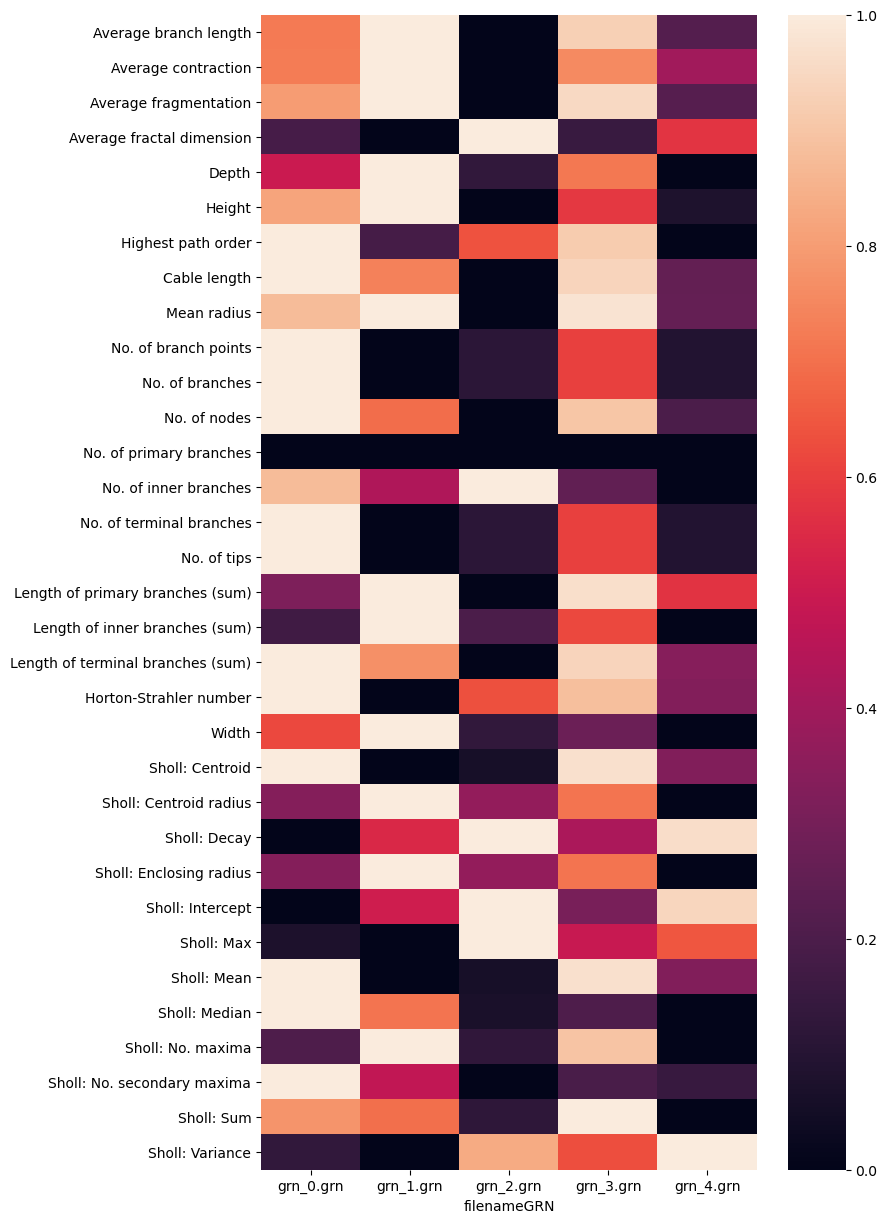
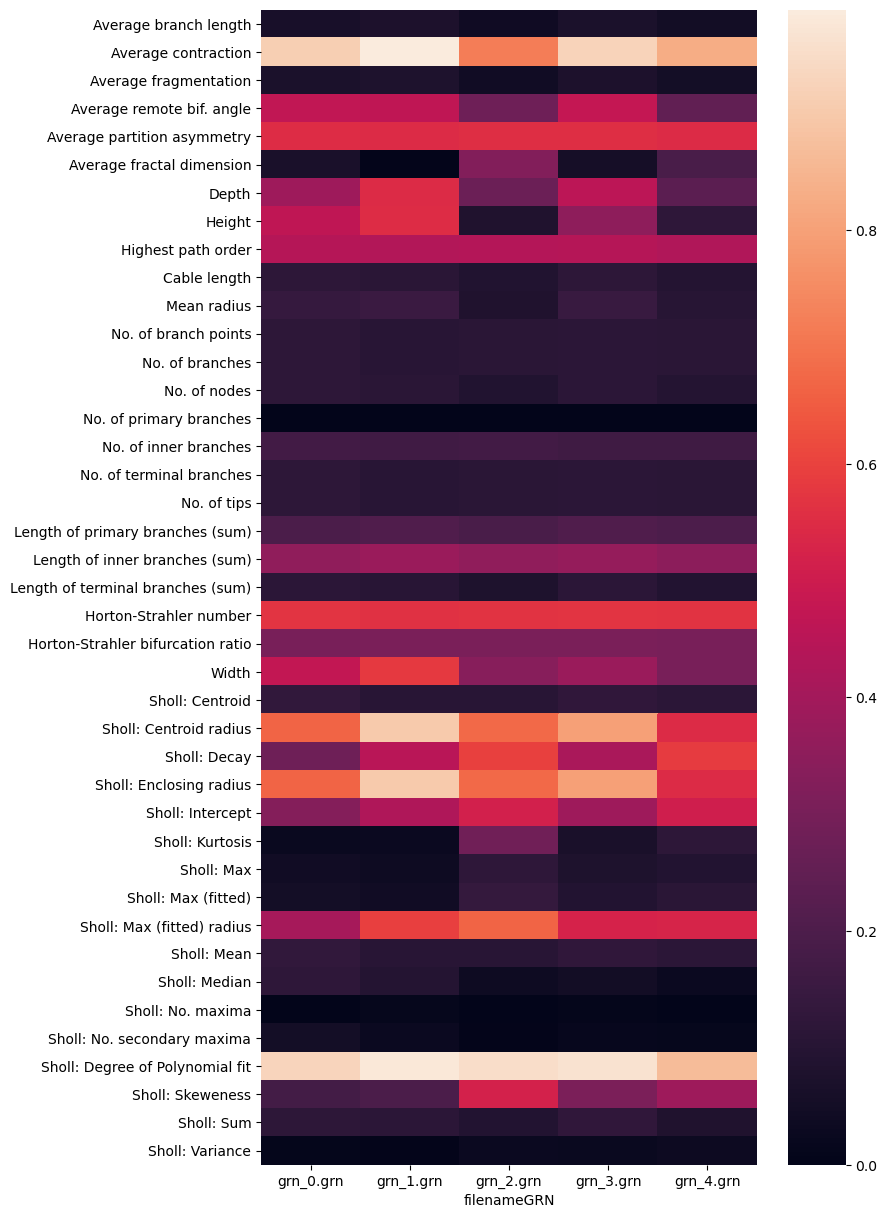
Update scaling in heatmaps

diff --git a/Metrics/analysis.py b/Metrics/analysis.py
@@ -76,13 +76,15 @@ plot_histplot(pdata)
 
 # Create the heatmap
 def plot_heatmap(pdata):
-    snt_df = pdata.drop(columns=["Description"])
-    snt_df = snt_df.dropna(axis="columns")
-    # Aggregate each projection group using the mean value of each metric across all observations
-    snt_df = snt_df.groupby(["projectionGroup"]).mean()
-    # Scale the values of each metric by the min-max value across the projection groups, so that all metrics
+    snt_df = pdata.dropna(axis="columns")
+    projection_group = snt_df["projectionGroup"]
+    snt_df = snt_df.drop(columns=["Description", "projectionGroup"])
+    # Scale the values of each metric by the min-max value across all observations, so that all metrics
     # are in the same range [0, 1]
     snt_df = pd.DataFrame(MinMaxScaler().fit_transform(snt_df), index=snt_df.index, columns=snt_df.columns)
+    snt_df["projectionGroup"] = projection_group
+    # Aggregate each projection group using the mean value of each scaled metric across all observations
+    snt_df = snt_df.groupby(["projectionGroup"]).mean()
     plt.figure(figsize=(8, 15))
     ax = sns.heatmap(snt_df.T)
     plt.savefig(str(parent.absolute()) + '/heatmap.png', bbox_inches='tight')

diff --git a/FigS6_SyntheticMorphologies/analysis.py b/FigS6_SyntheticMorphologies/analysis.py
@@ -72,13 +72,15 @@ plot_histplot(pdata)
 
 # Create the heatmap
 def plot_heatmap(pdata):
-    snt_df = pdata.drop(columns=['Description'])
-    snt_df = snt_df.dropna(axis="columns")
-    # Aggregate each GRN type using the mean value of each metric across all observations
-    snt_df = snt_df.groupby(["filenameGRN"]).mean()
-    # Scale the values of each metric by the min-max value across the GRNs, so that all metrics
+    snt_df = pdata.dropna(axis="columns")
+    filename_grn = snt_df["filenameGRN"]
+    snt_df = pdata.drop(columns=["Description", "filenameGRN"])
+    # Scale the values of each metric by the min-max value across all observations, so that all metrics
     # are in the same range [0, 1]
     snt_df = pd.DataFrame(MinMaxScaler().fit_transform(snt_df), index=snt_df.index, columns=snt_df.columns)
+    snt_df["filenameGRN"] = filename_grn
+    # Aggregate each GRN type using the mean value of each scaled metric across all observations
+    snt_df = snt_df.groupby(["filenameGRN"]).mean()
     plt.figure(figsize=(8, 15))
     ax = sns.heatmap(snt_df.T)
     plt.savefig(str(parent.absolute()) + '/heatmap.png', bbox_inches='tight')
